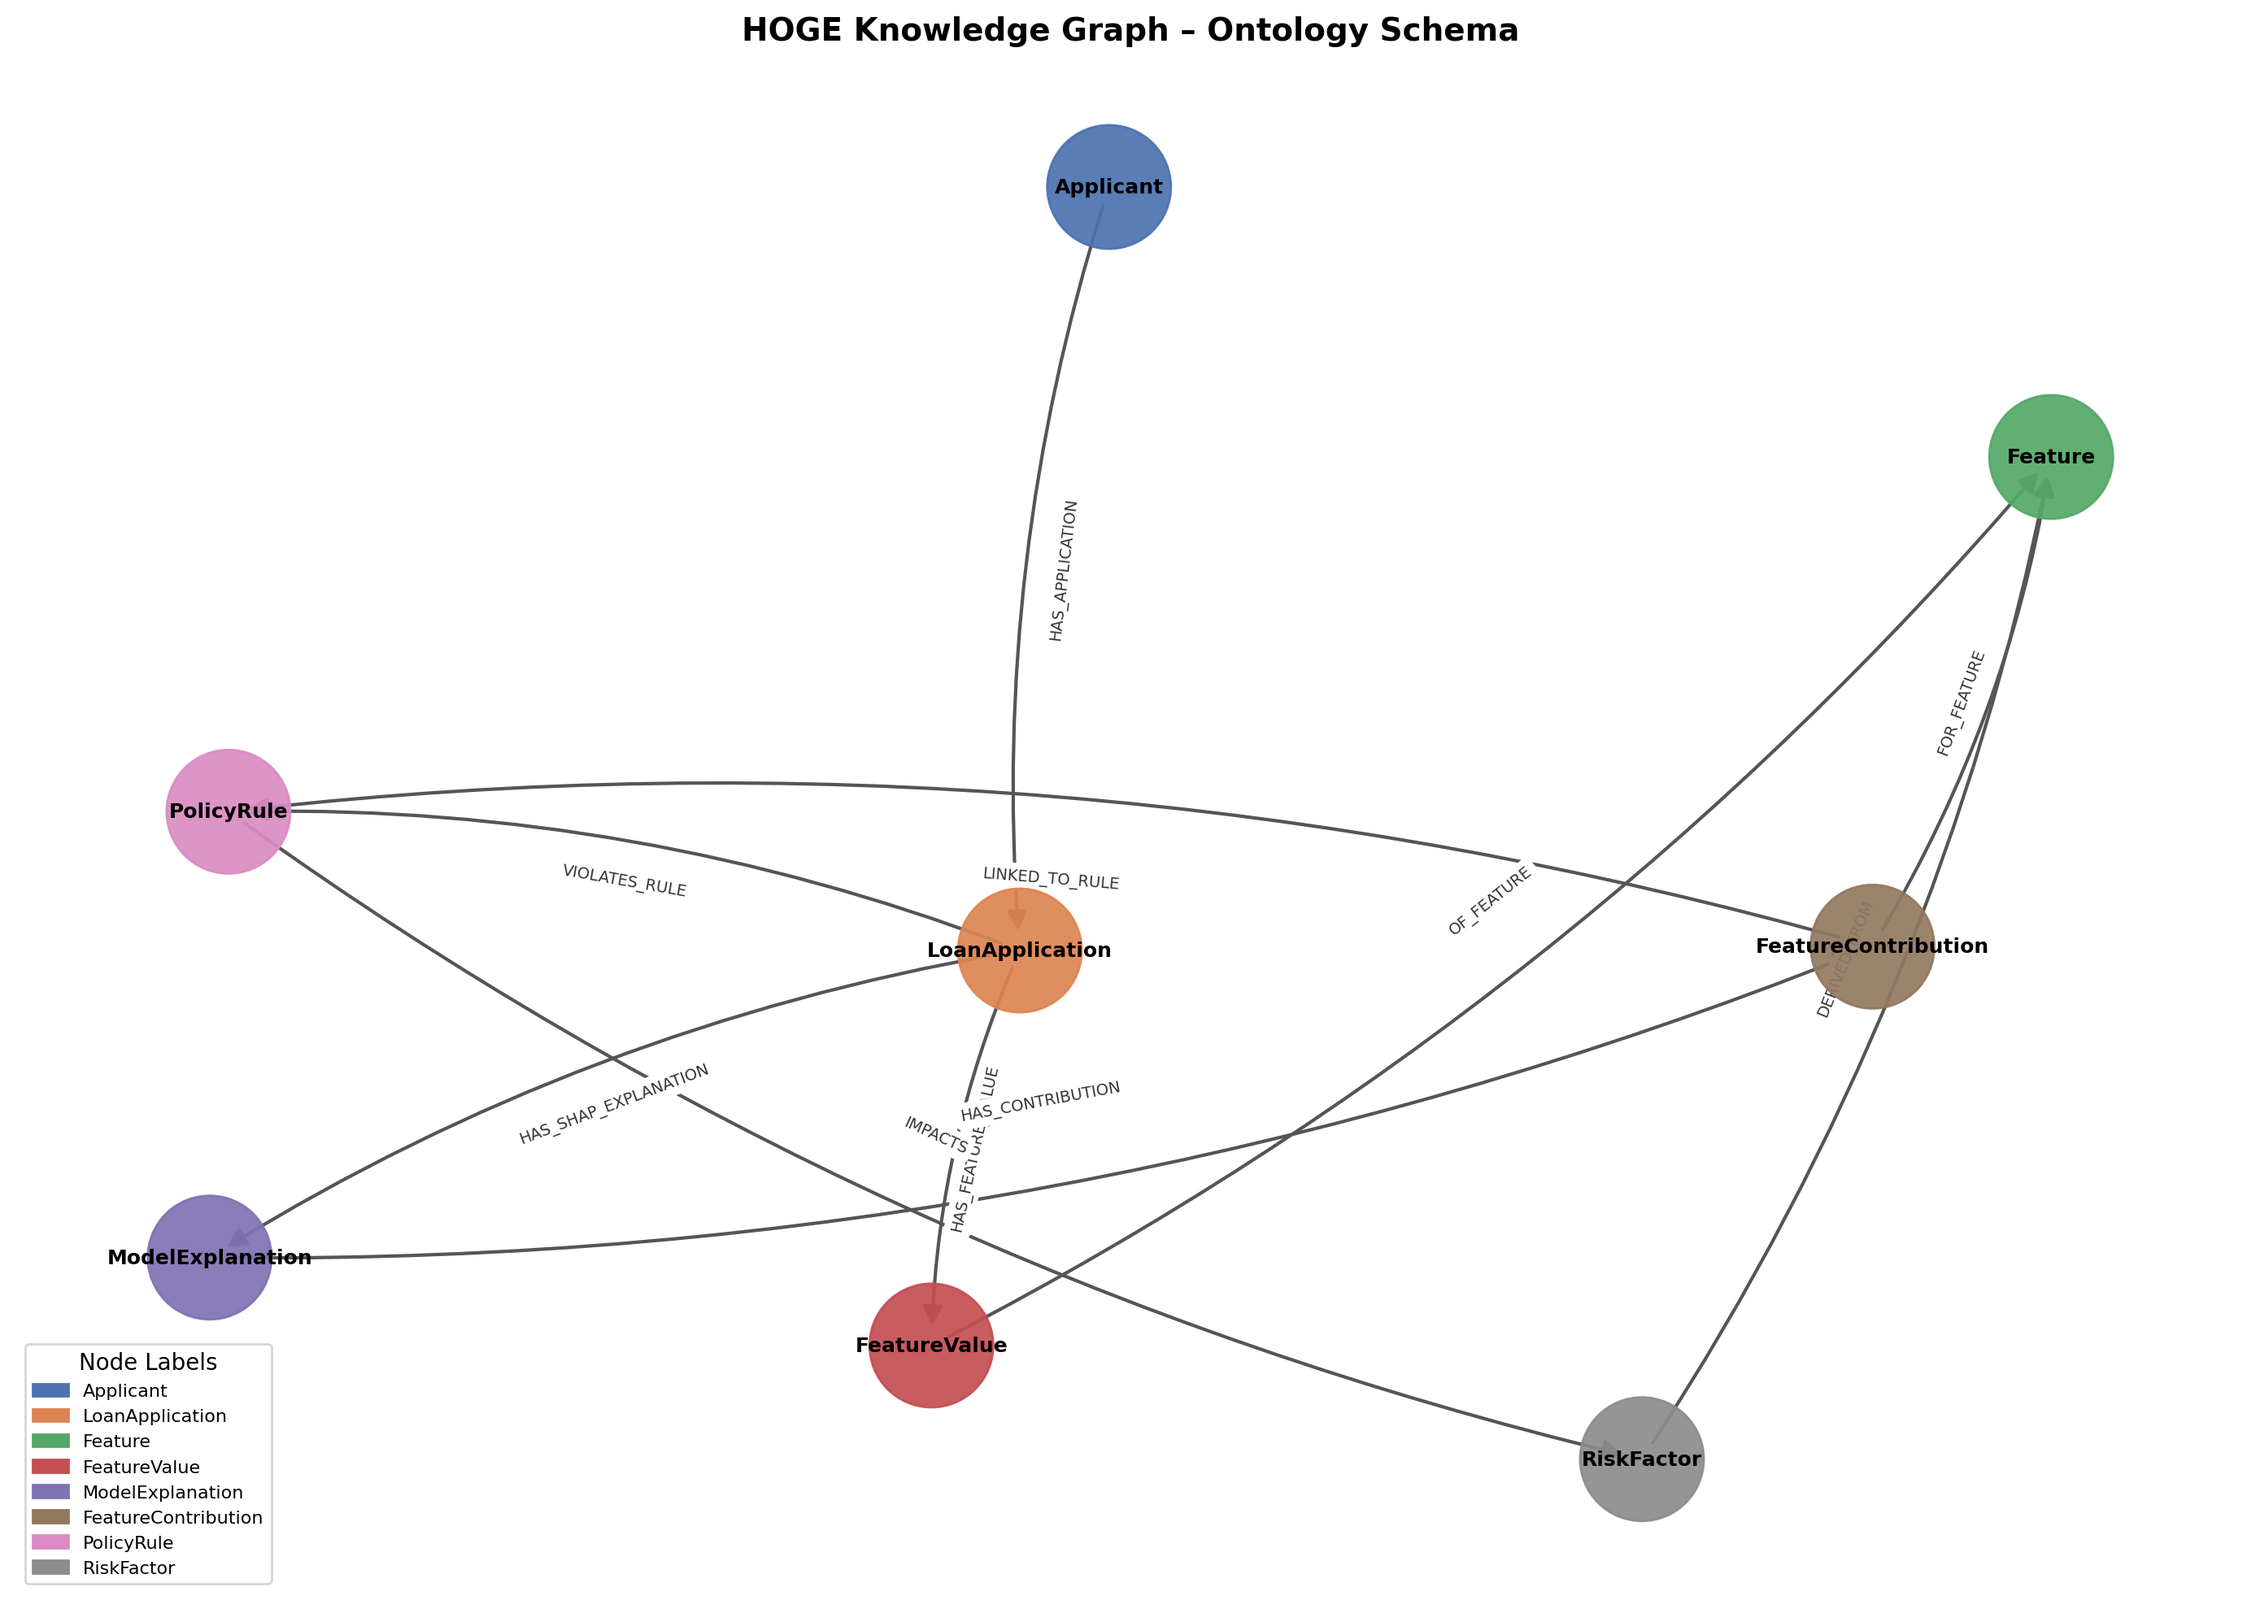
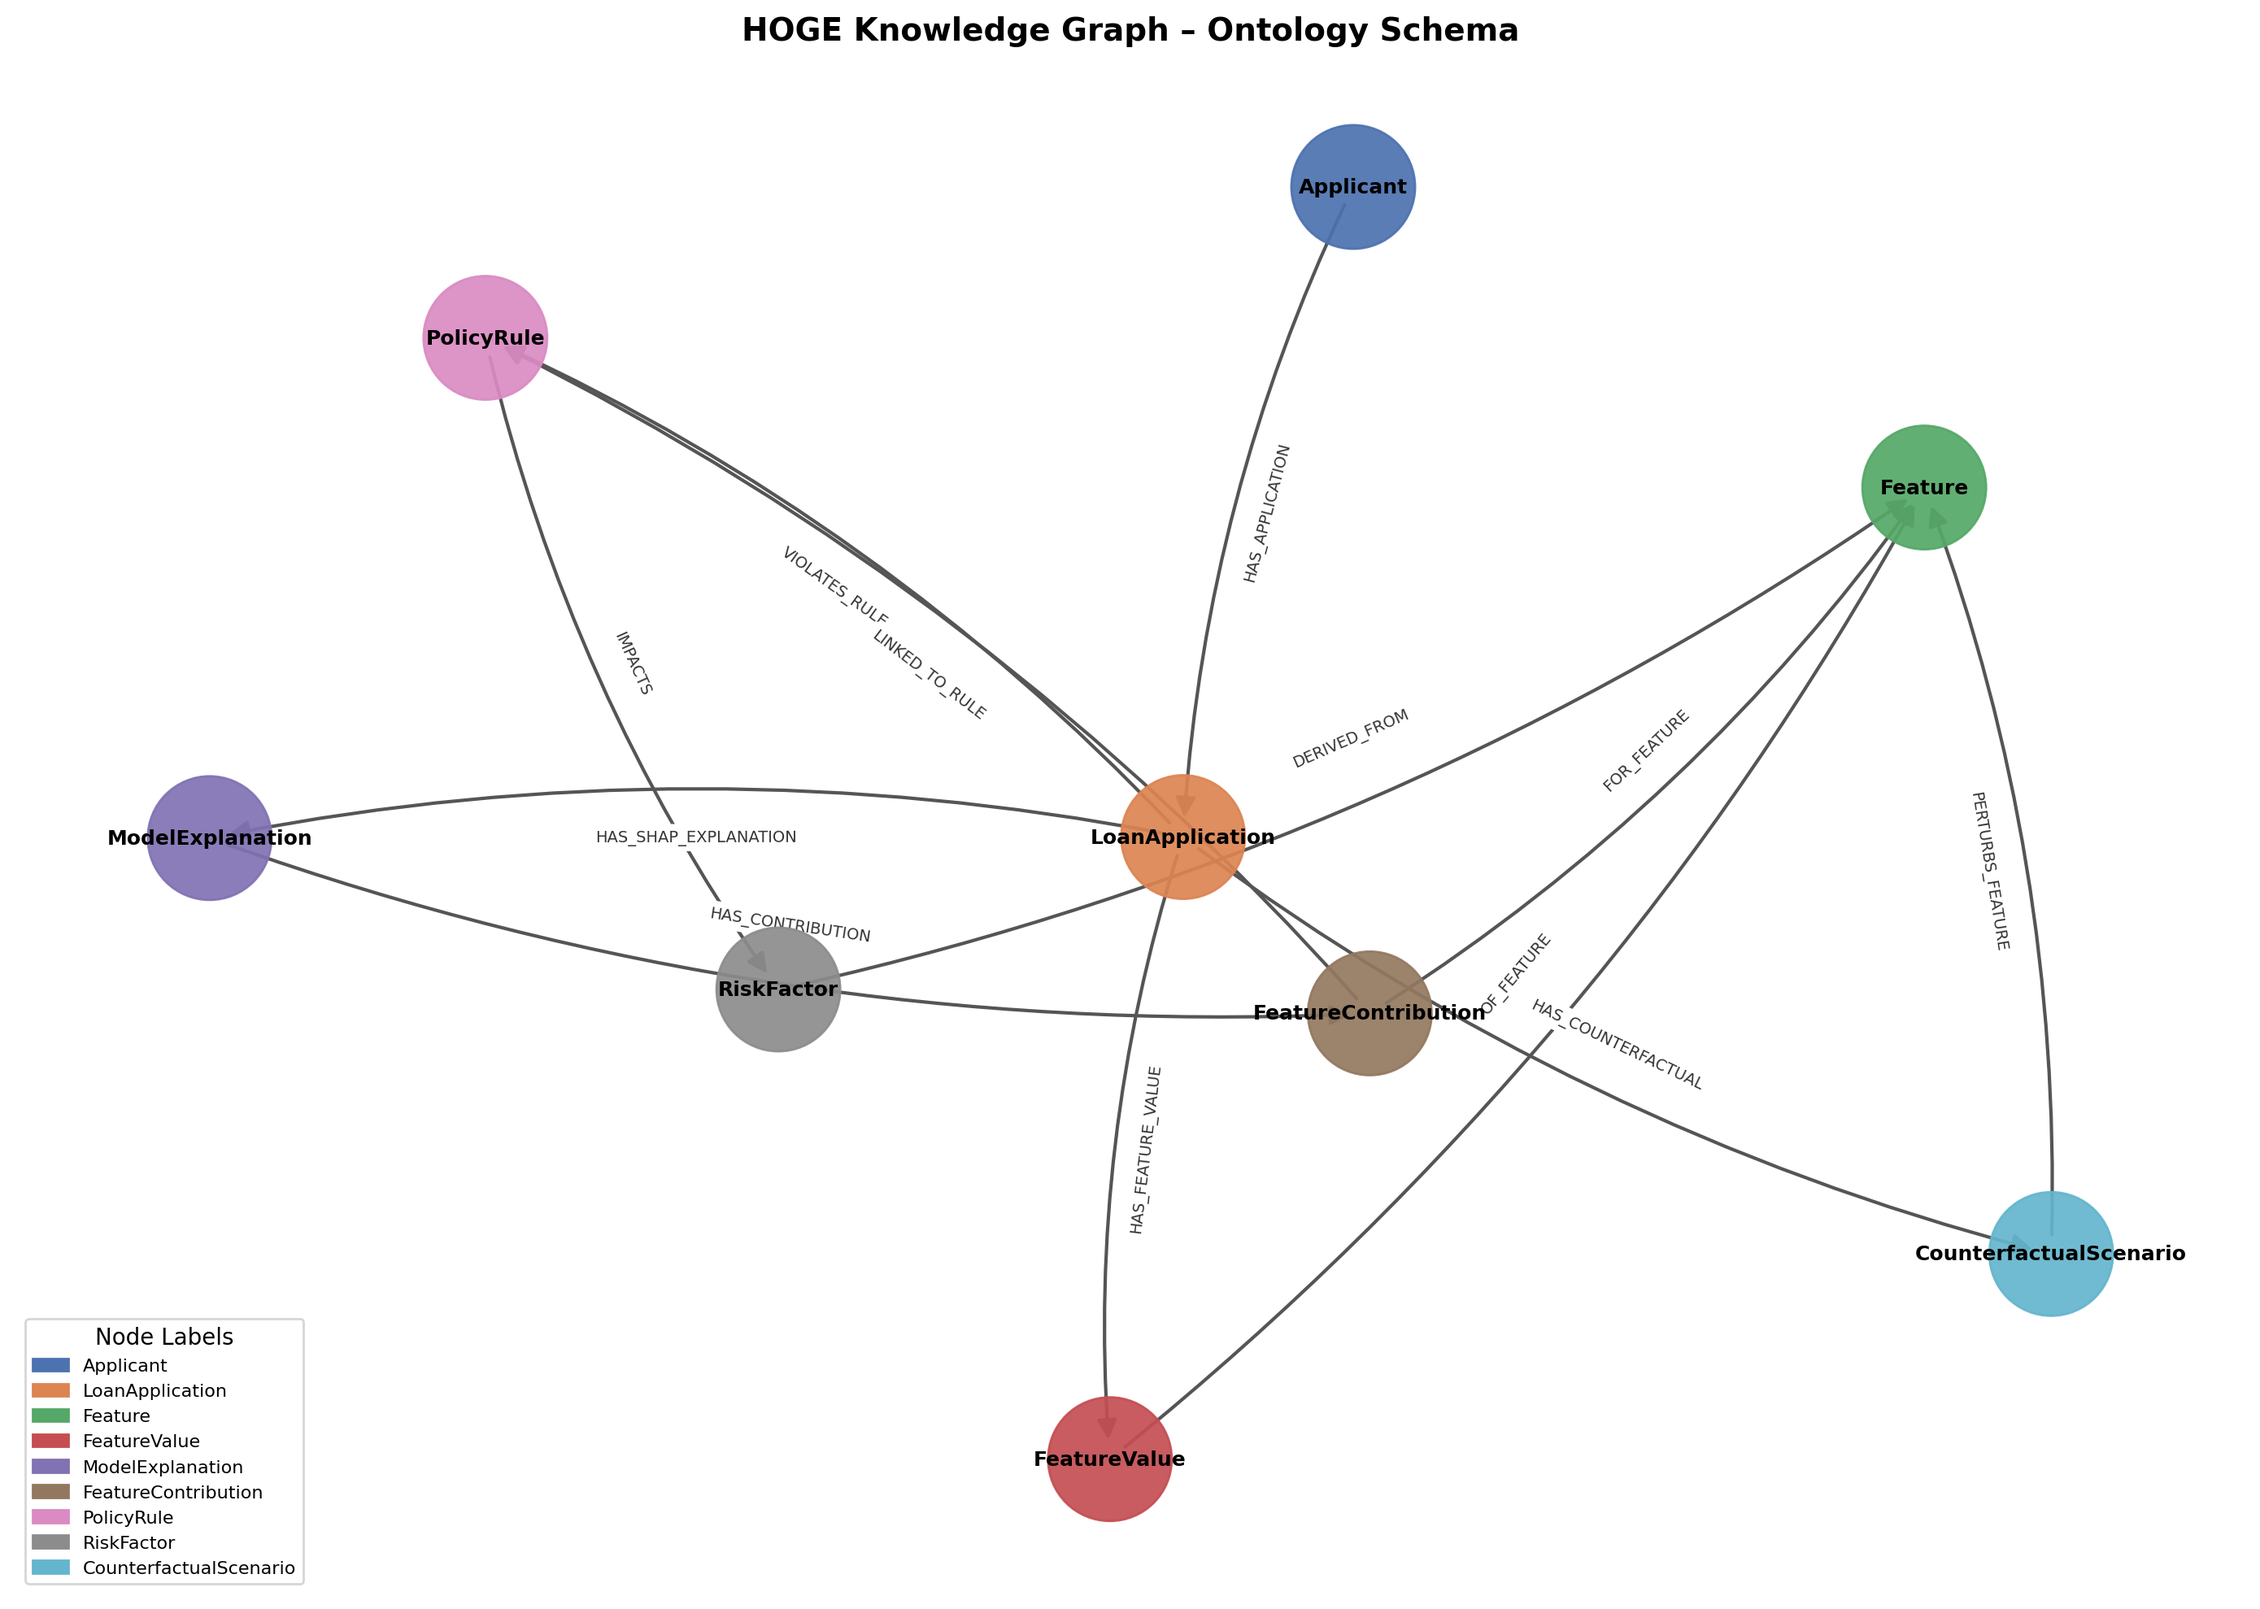
Regenerate KG schema image with CounterfactualScenario node label
- Added CounterfactualScenario to LABEL_COLORS palette (light blue #64B5CD)
- Schema image now shows 9 node labels with HAS_COUNTERFACTUAL and PERTURBS_FEATURE relationships

diff --git a/generate_kg_visualizations.py b/generate_kg_visualizations.py
@@ -22,14 +22,15 @@ driver = GraphDatabase.driver(NEO4J_URI, auth=(NEO4J_USER, NEO4J_PASS))
 
 # ── colour palette per node label ──────────────────────────
 LABEL_COLORS = {
-    "Applicant":           "#4C72B0",
-    "LoanApplication":     "#DD8452",
-    "Feature":             "#55A868",
-    "FeatureValue":        "#C44E52",
-    "ModelExplanation":    "#8172B3",
-    "FeatureContribution": "#937860",
-    "PolicyRule":          "#DA8BC3",
-    "RiskFactor":          "#8C8C8C",
+    "Applicant":              "#4C72B0",
+    "LoanApplication":        "#DD8452",
+    "Feature":                "#55A868",
+    "FeatureValue":           "#C44E52",
+    "ModelExplanation":       "#8172B3",
+    "FeatureContribution":    "#937860",
+    "PolicyRule":             "#DA8BC3",
+    "RiskFactor":             "#8C8C8C",
+    "CounterfactualScenario": "#64B5CD",
 }
 DEFAULT_COLOR = "#CCB974"
 
@@ -176,8 +177,8 @@ def _short(name, label):
     if name is None:
         return "?"
     s = str(name)
-    # Shorten FeatureContribution / FeatureValue ids
-    if label in ("FeatureContribution", "FeatureValue") and "_" in s:
+    # Shorten FeatureContribution / FeatureValue / CounterfactualScenario ids
+    if label in ("FeatureContribution", "FeatureValue", "CounterfactualScenario") and "_" in s:
         parts = s.split("_")
         # e.g. EXP_LP001006_DTI -> DTI
         if len(parts) >= 3:
